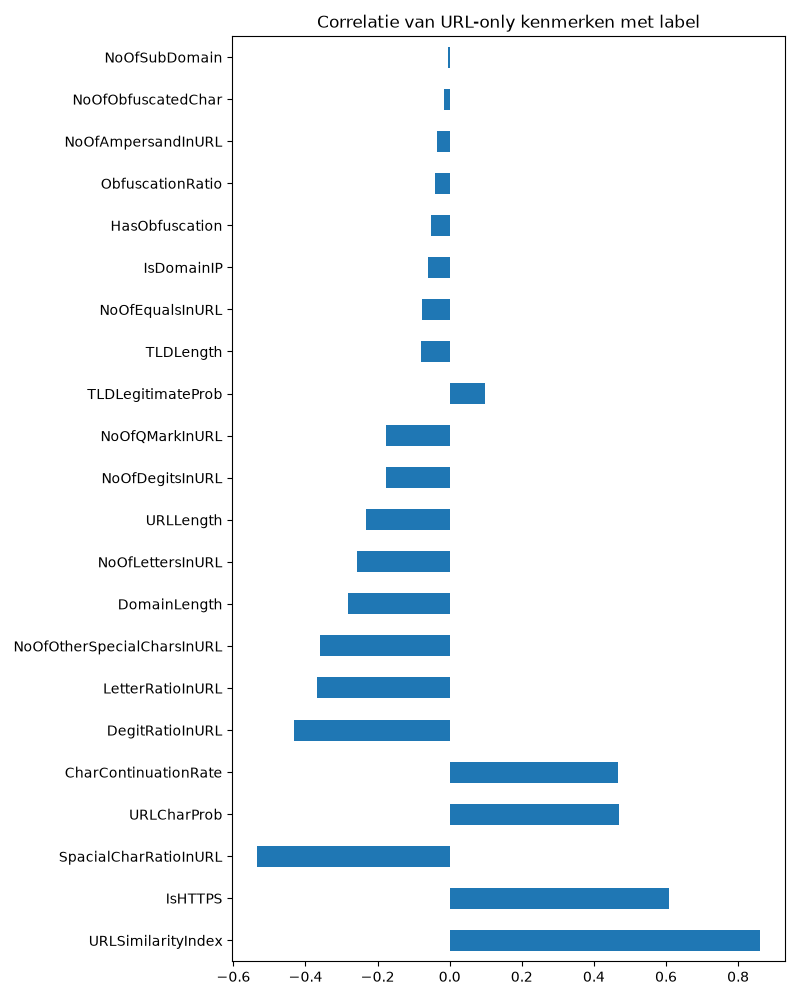
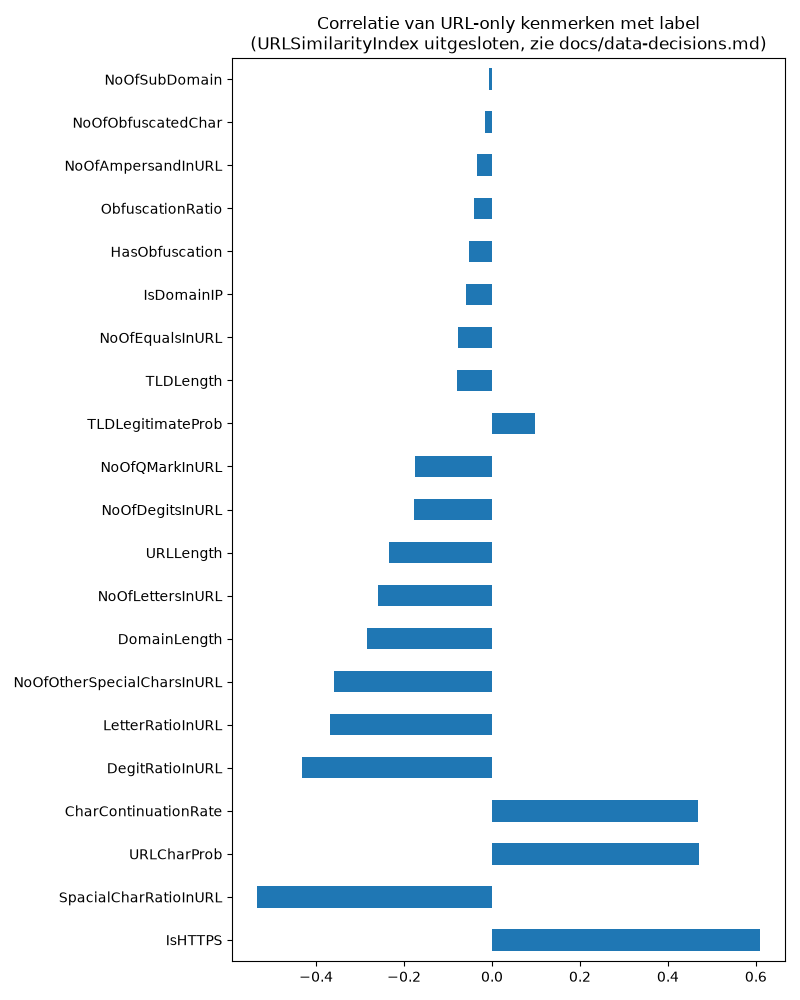
Documented MVP scope decision: URL-only over URL+website model

diff --git a/src/sanity_checks.py b/src/sanity_checks.py
@@ -1,0 +1,54 @@
+"""
+Sanity checks op de dataset en het baseline-model:
+1. Zitten er (bijna-)duplicaten in de dataset? Dat zou de testscore kunstmatig
+   ophogen, omdat de testset dan rijen bevat die (bijna) letterlijk ook in de
+   trainset staan.
+2. Hoe stabiel is de accuracy over meerdere, verschillende train/test-splits
+   (cross-validation), in plaats van maar één toevallige split?
+"""
+import sys
+import os
+
+sys.path.append(os.path.join(os.path.dirname(__file__), ".."))
+
+import pandas as pd
+from sklearn.model_selection import cross_val_score, StratifiedKFold
+from sklearn.preprocessing import StandardScaler
+from sklearn.linear_model import LogisticRegression
+
+from src.feature_lists import URL_ONLY_FEATURES, LABEL_COLUMN
+
+DATA_PATH = os.path.join(os.path.dirname(__file__), "..", "data", "phiusiil_phishing_urls.csv")
+
+
+def main():
+    df = pd.read_csv(DATA_PATH)
+
+    # --- Check 1: exacte duplicaten op basis van de URL-only features ---
+    print("--- Check 1: duplicaten in de features ---")
+    feature_data = df[URL_ONLY_FEATURES]
+    n_duplicates = feature_data.duplicated().sum()
+    print(f"Aantal rijen met exact dezelfde URL-only kenmerken als een andere rij: {n_duplicates}")
+    print(f"Dat is {n_duplicates / len(df) * 100:.1f}% van de dataset.")
+
+    # --- Check 2: cross-validation in plaats van één split ---
+    print("\n--- Check 2: 5-voudige cross-validation ---")
+    X = df[URL_ONLY_FEATURES].copy()
+    top_tlds = X["TLD"].value_counts().nlargest(20).index
+    X["TLD"] = X["TLD"].where(X["TLD"].isin(top_tlds), other="overig")
+    X = pd.get_dummies(X, columns=["TLD"], prefix="TLD")
+    y = df[LABEL_COLUMN]
+
+    scaler = StandardScaler()
+    X_scaled = scaler.fit_transform(X)
+
+    model = LogisticRegression(max_iter=1000, random_state=42)
+    cv = StratifiedKFold(n_splits=5, shuffle=True, random_state=42)
+    scores = cross_val_score(model, X_scaled, y, cv=cv, scoring="accuracy")
+
+    print(f"Accuracy per fold: {[f'{s:.4f}' for s in scores]}")
+    print(f"Gemiddelde: {scores.mean():.4f}  (std: {scores.std():.4f})")
+
+
+if __name__ == "__main__":
+    main()

diff --git a/docs/data-decisions.md b/docs/data-decisions.md
@@ -38,3 +38,21 @@ model phishing in de praktijk herkent". Bij een eventuele latere test op
 URL's uit een andere bron (bijvoorbeeld handmatig verzamelde voorbeelden)
 verwachten we een lagere score, en dat is dan een eerlijker beeld van de
 werkelijke prestatie.
+
+## MVP-scope bevestigd: URL-only (19 september 2026)
+
+Model B (URL + website-kenmerken) haalt 99,94% accuracy tegenover 99,68%
+voor Model A (URL-only): een verschil van +0,26 procentpunt. Dat is te
+klein om de extra complexiteit en risico's van live website-analyse
+(langzamer, foutgevoeliger, SSRF-risico bij het zelf bezoeken van
+opgegeven sites) te rechtvaardigen voor de eerste versie.
+
+Besluit: de MVP-applicatie gebruikt het URL-only model (Model A). De
+website-uitbreiding (Model B) blijft een onderbouwde, beargumenteerde
+vervolgstap voor een latere fase, zoals beschreven in het projectverslag
+(URL → Website → E-mail → SMS → Social).
+
+Kanttekening: bij Model B verschijnen NoOfSelfRef, NoOfExternalRef,
+NoOfJS, NoOfImage en HasSocialNet in de top-10 belangrijkste kenmerken.
+Dit bevestigt dat paginastructuur wel degelijk aanvullend signaal geeft,
+ook al is de winst in deze dataset beperkt.
